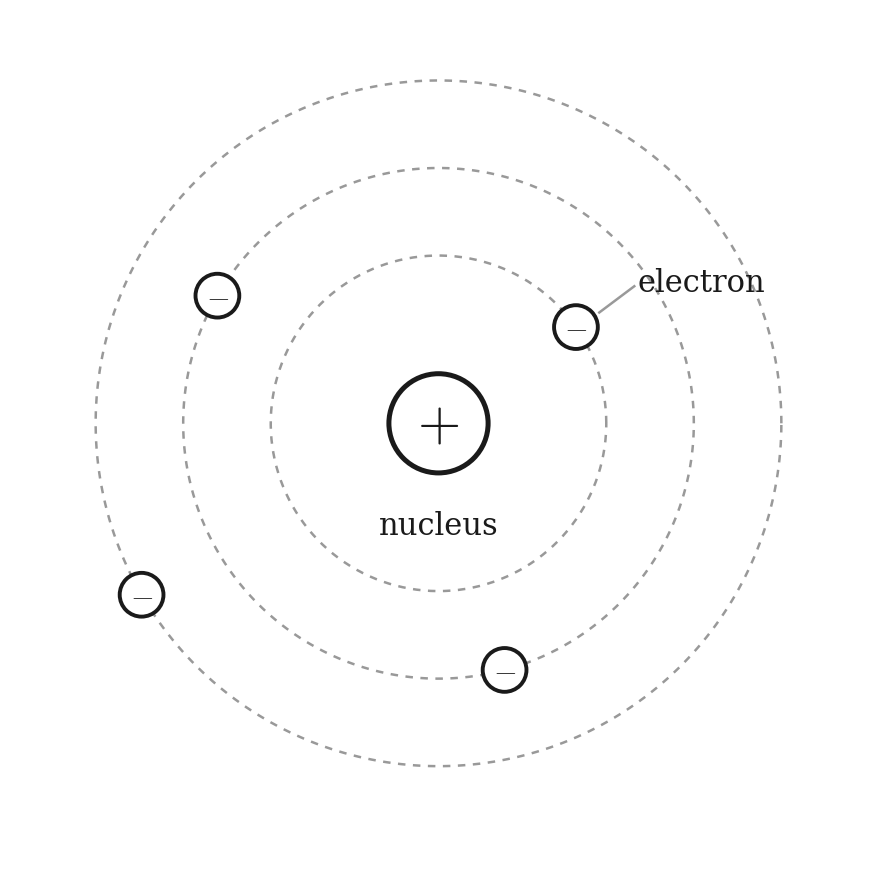
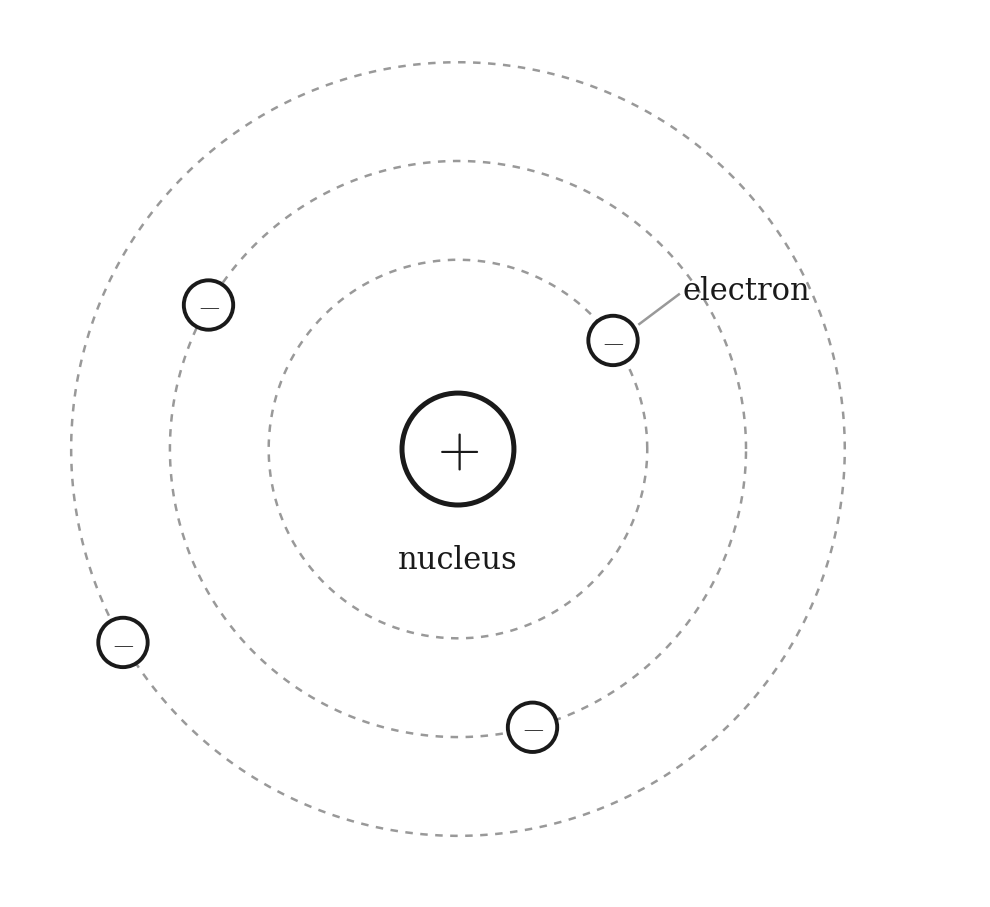
Ch 22 figures: combine 22.4/22.5, snug whitespace, renumber
Merge the two radial-field figures (out-of-+ / into--) into one two-panel Figure 22.4; renumber 22.6-22.10 -> 22.5-22.9 (no gap). Snug every figure's axis limits to remove the leftover whitespace from the ex-captions (axis-off + bbox=tight keeps the full axes rect). Prose has no figure cross-refs, so renumber is caption-only.

Claude-Session: https://claude.ai/code/session_012q1c1BGgCWKE2i2VFhfQEs

diff --git a/courses/pseii/ch22.html b/courses/pseii/ch22.html
@@ -274,8 +274,7 @@
 <li>For a <strong>positive</strong> source charge: <span class="math inline">\(\vec{E}\)</span> points <strong>away</strong> from the charge</li>
 <li>For a <strong>negative</strong> source charge: <span class="math inline">\(\vec{E}\)</span> points <strong>toward</strong> the charge</li>
 </ul>
-<figure class="chap-fig"><img src="/courses/pseii/ch22_figures/fig_22_4_efield_positive.png" alt="Figure 22.4: Electric field lines radiate outward from a positive charge" loading="lazy" style="max-width:min(3.7in,100%)" /><figcaption>Figure 22.4: Electric field lines radiate outward from a positive charge</figcaption></figure>
-<figure class="chap-fig"><img src="/courses/pseii/ch22_figures/fig_22_5_efield_negative.png" alt="Figure 22.5: Electric field lines point inward toward a negative charge" loading="lazy" style="max-width:min(3.7in,100%)" /><figcaption>Figure 22.5: Electric field lines point inward toward a negative charge</figcaption></figure>
+<figure class="chap-fig"><img src="/courses/pseii/ch22_figures/fig_22_4_field_directions.png" alt="Figure 22.4: Field lines point outward from a positive charge (left) and inward toward a negative charge (right)" loading="lazy" style="max-width:min(6in,100%)" /><figcaption>Figure 22.4: Field lines point outward from a positive charge (left) and inward toward a negative charge (right)</figcaption></figure>
 <p>The magnitude is: <span class="math display">\[E = k_e \frac{|Q|}{r^2}\]</span></p>
 <h3 id="force-on-a-charge-in-an-electric-field">Force on a Charge in an Electric Field</h3>
 <p>Once we know the electric field at a point, we can find the force on <em>any</em> charge placed there:</p>
@@ -304,14 +303,14 @@
 <p>where <span class="math inline">\(\vec{F}_{21}\)</span> is the force on charge 1 due to charge 2, etc.</p>
 <h3 id="example-electric-field-from-two-charges">Example: Electric Field from Two Charges</h3>
 <p>Consider two charges on the x-axis: <span class="math inline">\(q_1\)</span> at position <span class="math inline">\(x = -a\)</span> and <span class="math inline">\(q_2\)</span> at position <span class="math inline">\(x = +b\)</span>. Find the electric field at point P located at position <span class="math inline">\((0, y)\)</span> on the y-axis.</p>
-<figure class="chap-fig"><img src="/courses/pseii/ch22_figures/fig_22_6_superposition.png" alt="Figure 22.6: Superposition — the net electric field at P is the vector sum of individual fields" loading="lazy" style="max-width:min(4.2in,100%)" /><figcaption>Figure 22.6: Superposition — the net electric field at P is the vector sum of individual fields</figcaption></figure>
+<figure class="chap-fig"><img src="/courses/pseii/ch22_figures/fig_22_5_superposition.png" alt="Figure 22.5: Superposition — the net electric field at P is the vector sum of individual fields" loading="lazy" style="max-width:min(4.2in,100%)" /><figcaption>Figure 22.5: Superposition — the net electric field at P is the vector sum of individual fields</figcaption></figure>
 <p><strong>Step 1:</strong> Find the distance from each charge to point P: <span class="math display">\[r_1 = \sqrt{a^2 + y^2}, \quad r_2 = \sqrt{b^2 + y^2}\]</span></p>
 <p><strong>Step 2:</strong> Find the magnitude of each electric field: <span class="math display">\[E_1 = k_e \frac{|q_1|}{a^2 + y^2}, \quad E_2 = k_e \frac{|q_2|}{b^2 + y^2}\]</span></p>
 <p><strong>Step 3:</strong> Decompose into components and add vectorially: <span class="math display">\[E_x = E_{1x} + E_{2x}, \quad E_y = E_{1y} + E_{2y}\]</span></p>
 <p><strong>Step 4:</strong> Find magnitude and direction of resultant: <span class="math display">\[E = \sqrt{E_x^2 + E_y^2}, \quad \theta = \tan^{-1}\left(\frac{E_y}{E_x}\right)\]</span></p>
 <h3 id="special-case-electric-dipole">Special Case: Electric Dipole</h3>
 <p>An <strong>electric dipole</strong> consists of two equal and opposite charges (<span class="math inline">\(+q\)</span> and <span class="math inline">\(-q\)</span>) separated by a distance <span class="math inline">\(2a\)</span>.</p>
-<figure class="chap-fig"><img src="/courses/pseii/ch22_figures/fig_22_7_dipole.png" alt="Figure 22.7: Electric dipole with field lines curving from positive to negative charge" loading="lazy" style="max-width:min(4.2in,100%)" /><figcaption>Figure 22.7: Electric dipole with field lines curving from positive to negative charge</figcaption></figure>
+<figure class="chap-fig"><img src="/courses/pseii/ch22_figures/fig_22_6_dipole.png" alt="Figure 22.6: Electric dipole with field lines curving from positive to negative charge" loading="lazy" style="max-width:min(4.2in,100%)" /><figcaption>Figure 22.6: Electric dipole with field lines curving from positive to negative charge</figcaption></figure>
 <p>For points far from the dipole (<span class="math inline">\(y &gt;&gt; a\)</span>), the electric field along the perpendicular bisector falls off as:</p>
 <p><span class="math display">\[E \propto \frac{1}{y^3}\]</span></p>
 <p>This is faster than the <span class="math inline">\(1/r^2\)</span> falloff of a single charge! The fields from the two charges partially cancel.</p>
@@ -360,17 +359,17 @@
 <p><strong>Electric Dipole:</strong> Lines curve from the positive charge to the negative charge, forming characteristic looping patterns.</p>
 <p><strong>Two Like Charges:</strong> Lines repel each other, curving away. There is a point between the charges where the field is zero.</p>
 <p><strong>Uniform Field (Parallel Plates):</strong> Between two large parallel plates with opposite charges, field lines are straight, parallel, and evenly spaced.</p>
-<figure class="chap-fig"><img src="/courses/pseii/ch22_figures/fig_22_8_field_patterns.png" alt="Figure 22.8: Electric field line patterns for various charge configurations" loading="lazy" style="max-width:min(5in,100%)" /><figcaption>Figure 22.8: Electric field line patterns for various charge configurations</figcaption></figure>
+<figure class="chap-fig"><img src="/courses/pseii/ch22_figures/fig_22_7_field_patterns.png" alt="Figure 22.7: Electric field line patterns for various charge configurations" loading="lazy" style="max-width:min(5in,100%)" /><figcaption>Figure 22.7: Electric field line patterns for various charge configurations</figcaption></figure>
 <h3 id="field-lines-and-flux">Field Lines and Flux</h3>
 <p>The <strong>density of field lines</strong> (number of lines per unit area) is proportional to the electric field magnitude. This concept will be formalized as <strong>electric flux</strong> in Chapter 23 when we introduce Gauss’s Law.</p>
-<figure class="chap-fig"><img src="/courses/pseii/ch22_figures/fig_22_9_parallel_plates.png" alt="Figure 22.9: Uniform electric field between parallel plates" loading="lazy" style="max-width:min(4.6in,100%)" /><figcaption>Figure 22.9: Uniform electric field between parallel plates</figcaption></figure>
+<figure class="chap-fig"><img src="/courses/pseii/ch22_figures/fig_22_8_parallel_plates.png" alt="Figure 22.8: Uniform electric field between parallel plates" loading="lazy" style="max-width:min(4.6in,100%)" /><figcaption>Figure 22.8: Uniform electric field between parallel plates</figcaption></figure>
 <hr />
 <h2 id="motion-of-a-charged-particle-in-a-uniform-electric-field">22.7 — Motion of a Charged Particle in a Uniform Electric Field</h2>
 <h3 id="projectile-motion-analogy">Projectile Motion Analogy</h3>
 <p>In Physics I, we studied projectile motion — an object moving under constant gravitational acceleration. The motion could be decomposed into independent horizontal and vertical components.</p>
 <p>A charged particle in a <strong>uniform electric field</strong> behaves similarly! The constant field produces a constant acceleration:</p>
 <p><span class="math display">\[\vec{a} = \frac{q\vec{E}}{m}\]</span></p>
-<figure class="chap-fig"><img src="/courses/pseii/ch22_figures/fig_22_10_trajectory.png" alt="Figure 22.10: A charged particle follows a parabolic trajectory in a uniform electric field, analogous to projectile motion" loading="lazy" style="max-width:min(4.8in,100%)" /><figcaption>Figure 22.10: A charged particle follows a parabolic trajectory in a uniform electric field, analogous to projectile motion</figcaption></figure>
+<figure class="chap-fig"><img src="/courses/pseii/ch22_figures/fig_22_9_trajectory.png" alt="Figure 22.9: A charged particle follows a parabolic trajectory in a uniform electric field, analogous to projectile motion" loading="lazy" style="max-width:min(4.8in,100%)" /><figcaption>Figure 22.9: A charged particle follows a parabolic trajectory in a uniform electric field, analogous to projectile motion</figcaption></figure>
 <p>If the field points in one direction (say, <span class="math inline">\(+y\)</span>), we can analyze the motion using our familiar kinematic equations:</p>
 <p><strong>Constant Acceleration Kinematics:</strong> <span class="math display">\[v_f = v_i + at\]</span> <span class="math display">\[x_f = x_i + v_i t + \frac{1}{2}at^2\]</span> <span class="math display">\[v_f^2 = v_i^2 + 2a(x_f - x_i)\]</span></p>
 <h3 id="example-proton-in-a-uniform-field">Example: Proton in a Uniform Field</h3>
